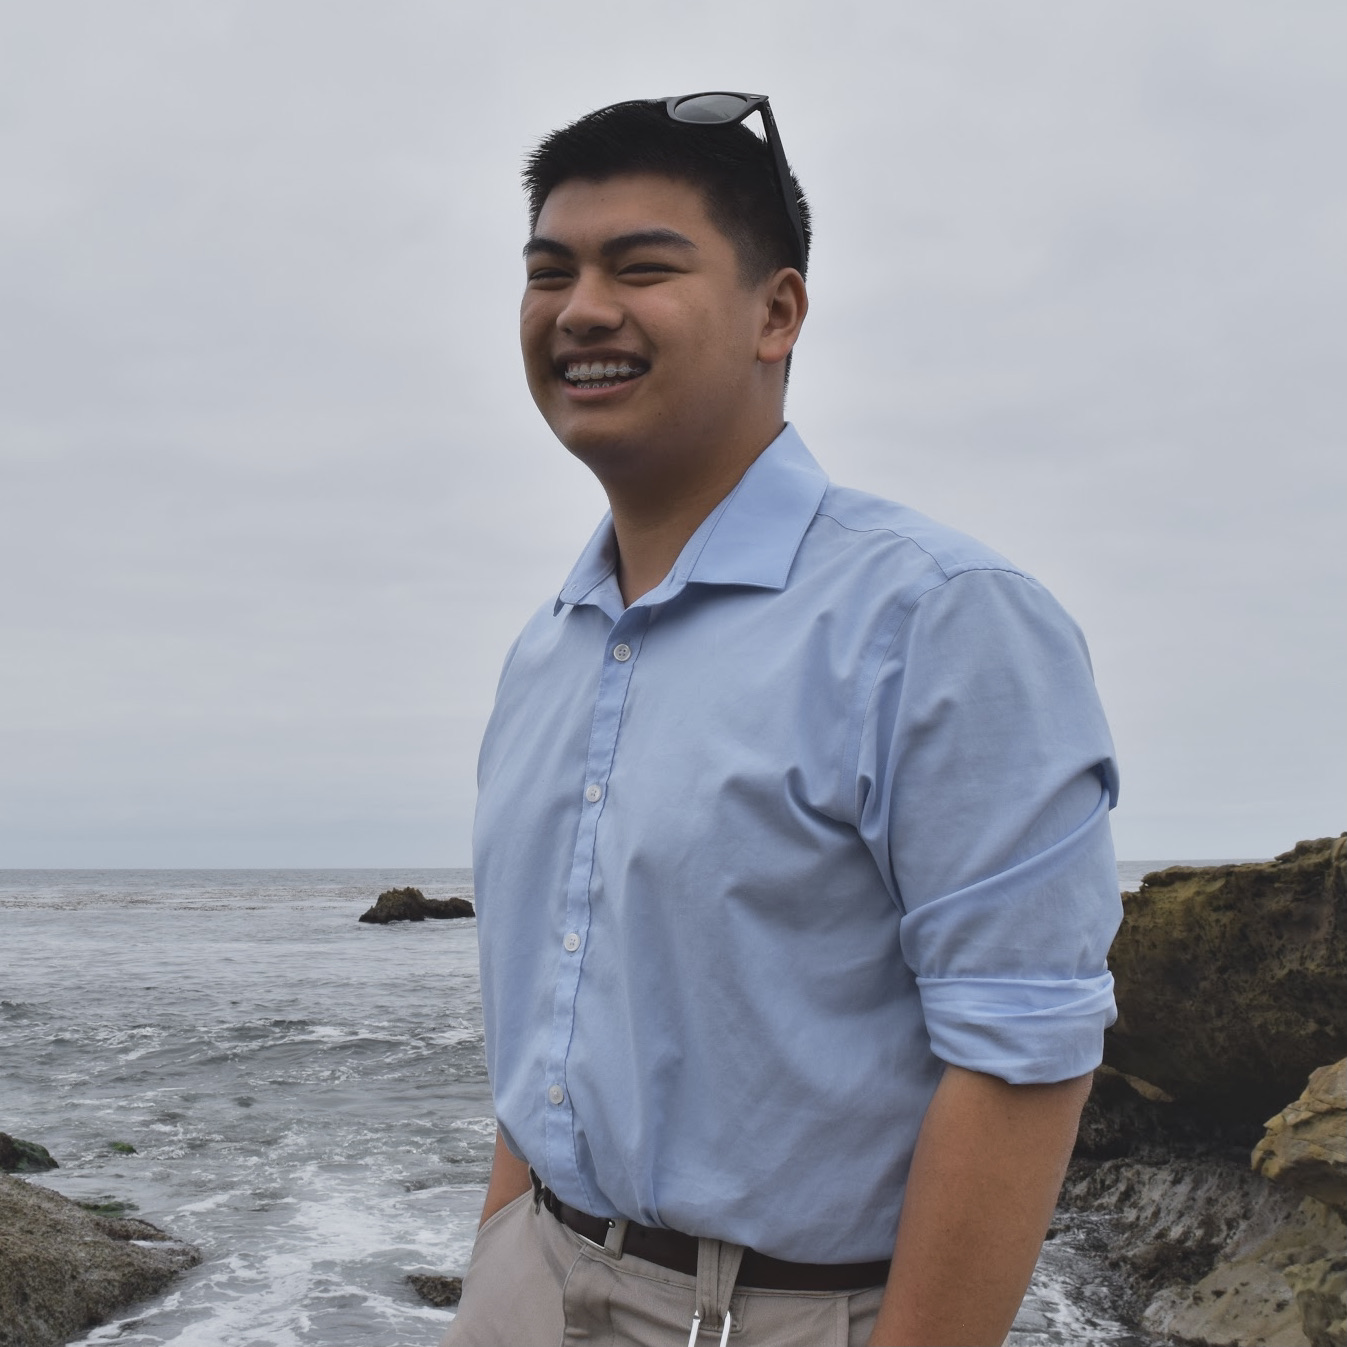
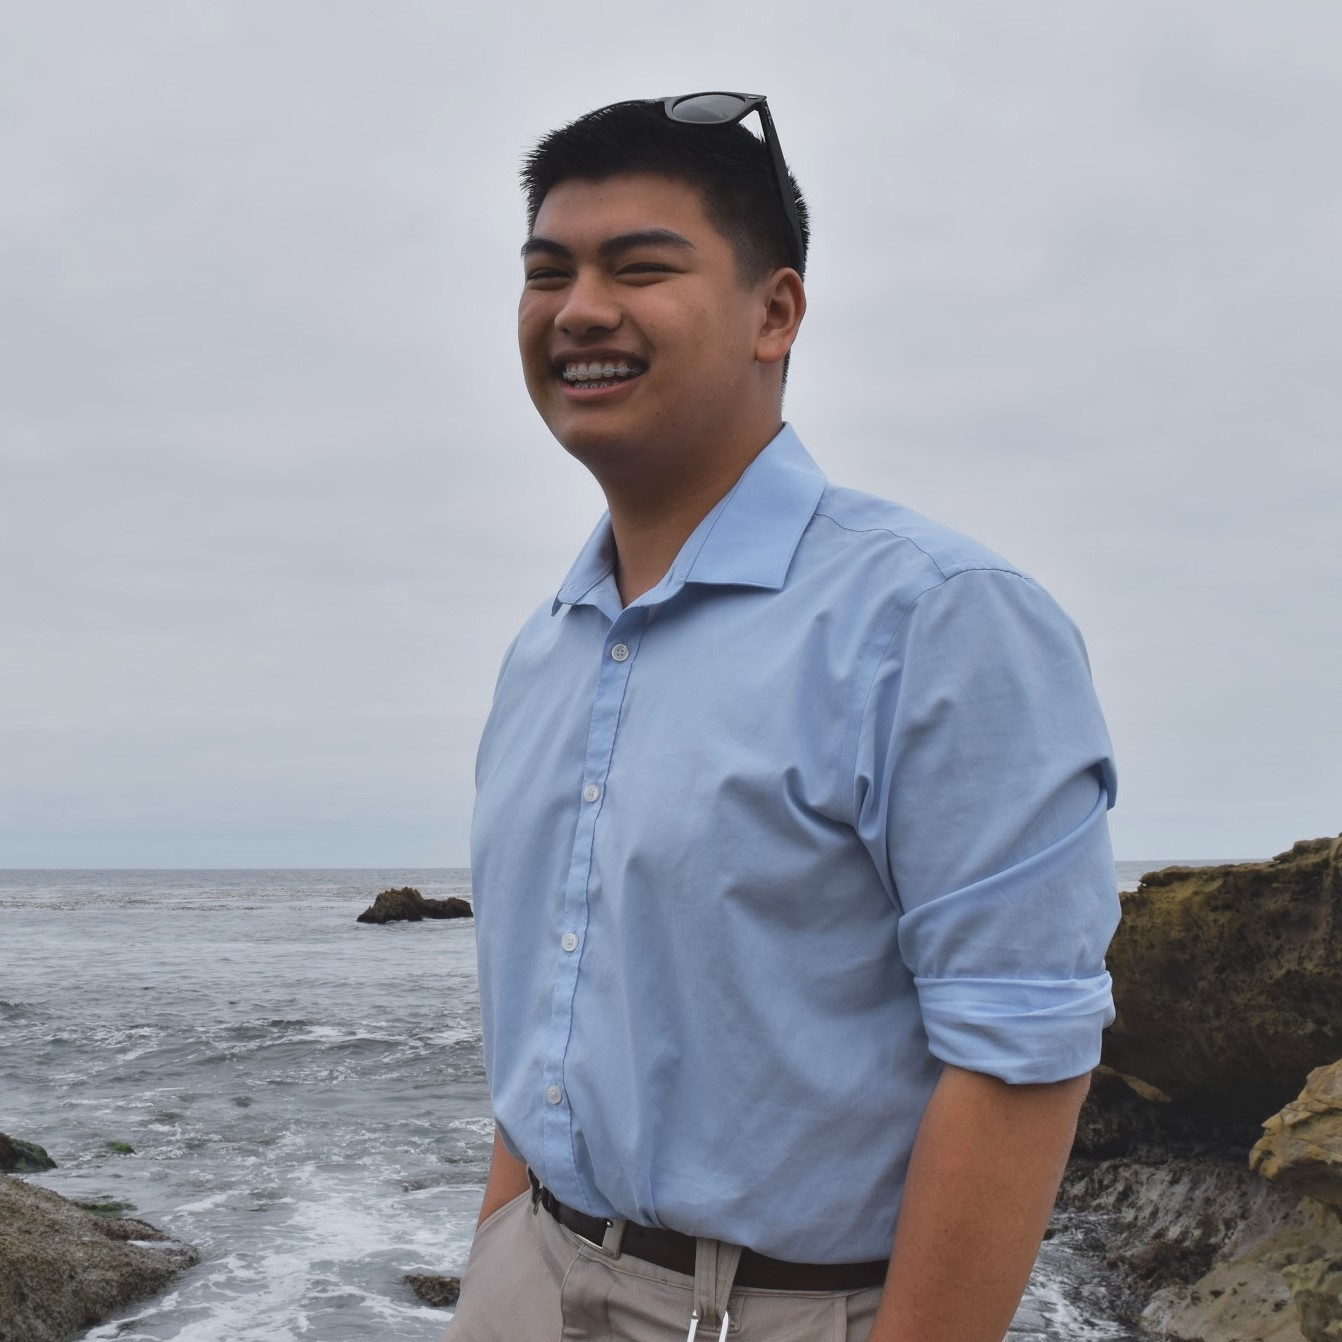
Update

diff --git a/index.html b/index.html
@@ -113,7 +113,7 @@
 	</div>
 	<div class="row slideanim">
 	<div class="col-sm-4">
-	<img class="img-circle" src="assets/officers/2020-2021/Alex_Square.jpg" alt="Alex"/>
+	<img class="img-circle" src="assets/officers/2020-2021/Alex_Hattori.jpg" alt="Alex"/>
 	<h4>Alex hattori</h4>
 	<p class="subtitle">External Vice President</p>
 	<p>3rd Year in Chemical Engineering<br/>Contact: ucsbsase.evp@gmail.com</p>

diff --git a/assets/styles.css b/assets/styles.css
@@ -131,6 +131,8 @@ h4 {
 }
 .img-circle {
 	border-radius: 50%;
+	width: 320px;
+	height: 320px;
 }
 .container>.navbar-collapse {
 	margin-right: -15px;
